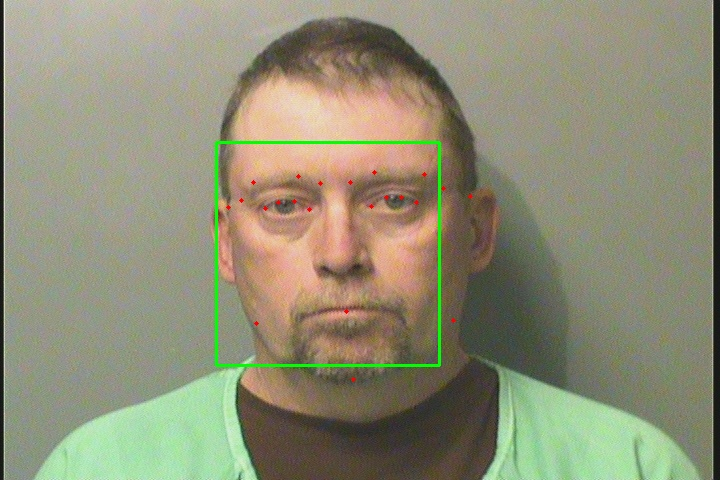
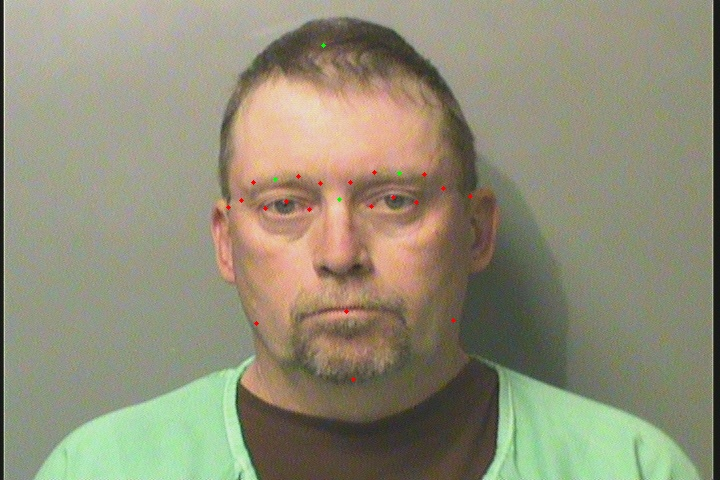
updated ASM fitting

Changed region(s): [[0.275, 0.2812, 0.6417, 0.7812], [0.3667, 0.4062, 0.4278, 0.4375], [0.5194, 0.4062, 0.55, 0.4375]]

diff --git a/templates/home.html b/templates/home.html
@@ -17,7 +17,9 @@
 
 <center>
     <div style="width: 450px; height: 500px; overflow: hidden">
-        <img src="https://thumbs.dreamstime.com/z/dumbbell-7556873.jpg" style="width: 500px; height: 500px;"  >
+        <!-- <img src="https://thumbs.dreamstime.com/z/dumbbell-7556873.jpg" style="width: 500px; height: 500px;"  > -->
+        <img src="../images/cover.jpg" style="width: 500px; height: 500px;"  >
+
 
     <!-- <img src="..." alt="..."> -->
 </div>

diff --git a/testcodes/ASMfitting-suresh.py b/testcodes/ASMfitting-suresh.py
@@ -7,9 +7,50 @@ import math
 import imutils
 from imutils import face_utils
 import os
+import pandas as pd
 
 
 
+def midpoint(p1, p2):
+    return ((p1[0]+p2[0])/2, (p1[1]+p2[1])/2) 
+
+
+def intersectionpt(p1,p2,p3,p4):
+    
+
+    # line p1 p2 
+    a1 = p2[1] - p1[1] 
+    b1 = p1[0] - p2[0] 
+    c1 = a1*(p1[0]) + b1*(p1[1])
+
+
+    #line p3 p4
+
+    a2 = p4[1] - p3[1] 
+    b2 = p3[0] - p4[0] 
+    c2 = a2*(p3[0])+ b2*(p3[1])
+ 
+
+    #determinant
+
+    determinant = a1*b2 - a2*b1
+
+    if (determinant == 0) :
+
+        #The lines are parallel. This is simplified 
+        # by returning a pair of FLT_MAX 
+        print('The points are parallel')
+        return (0,0) 
+    else:
+        mx = (b2*c1 - b1*c2)/determinant; 
+        my = (a1*c2 - a2*c1)/determinant; 
+        return (mx, my); 
+         
+
+
+
+def testprint(p1):
+    print('x:',p1[0],'y:',p1[1])
 
 def ASMfitting(imgin):
     
@@ -19,6 +60,8 @@ def ASMfitting(imgin):
     frame = cv2.imread(imgin)
     gray = cv2.cvtColor(frame, cv2.COLOR_BGR2GRAY)
     reqpoints = [0,4,8,12,16,17,18,20,21,22,23,25,26,36,37,38,39,42,43,44,45,66]
+    coords = {}
+    # data = pd.DataFrame(columns = ('image-name','0','4','8','12','16','17','18','20','21','22','23','25','26','36','37','38','39','42','43','44','45','66' ))
 
     
     detection = detector(gray, 1)
@@ -26,12 +69,58 @@ def ASMfitting(imgin):
         shape  = predictor(gray, d)
         shape1 = face_utils.shape_to_np(shape)
         (x, y, w, h) = face_utils.rect_to_bb(d)
-        cv2.rectangle(frame, (x, y), (x + w, y + h), (0, 255, 0), 2)
+        # cv2.rectangle(frame, (x, y), (x + w, y + h), (0, 255, 0), 2)
         for i,(x, y) in enumerate(shape1):
+            # data.append({'image-name': str(imgin)},ignore_index=True)
             if(i in reqpoints):
-                cv2.circle(frame, (x, y), 2, (0, 0, 255), -1)
+                strkey = "P"+ str(i)
+                point = (x,y)
+                # cv2.circle(frame, (x, y), 2, (0, 0, 255), -1)
+                # coords.append(point)
+                if strkey in coords:
+                    print("point already exist")
+                else :
+                    coords[strkey] = point
+
+        N3 = midpoint(coords['P18'],coords['P20'])
+        N4 = midpoint(coords['P23'],coords['P25'])
+        lefteyemid = midpoint(coords['P37'],coords['P38'])
+        righteyemid = midpoint(coords['P43'],coords['P44'])
+        N1 = midpoint(lefteyemid,righteyemid)
+        coords['Plfteyemid'] = lefteyemid
+        coords['Prghteyemid'] = righteyemid
+        # print('N1 :', N1)
+        coords['N3'] = N3
+        coords['N4'] = N4 
+        coords['N1'] = N1
+
+        N2 = intersectionpt(coords['P36'],coords['N3'],coords['P45'],coords['N4'])
+        print('N2:', N2)
+        coords['N2'] = N2
+
+        del coords['P37']
+        del coords['P38']
+        del coords['P43']
+        del coords['P44']
+
+
+        for key, value in coords.items():
+            print(key ,':', value[0] ,':', value[1], '\n' )
+            if(str(key[0]) == 'P'):
+                cv2.circle(frame, (int(value[0]), int(value[1])), 2, (0, 0, 255), -1)
+            else:
+                cv2.circle(frame, (int(value[0]), int(value[1])), 2, (0, 255, 0), -1)
+
+
+
+
+    # print( 'N3:' , N3)
+    # testprint(coords['P18'])
+    # print('accessing x'. )
     cv2.imshow("Output", frame)
     cv2.imwrite("fittedtst.jpeg",frame)
+    # print(data)
+    # print(coords)
     cv2.waitKey(0)
         # if cv2.waitKey(1) & 0xFF == ord('q'):
         #         break
@@ -40,3 +129,4 @@ def ASMfitting(imgin):
 
 ASMfitting('../test-images/testimg.jpeg')
 # ASMfitting('./test-images/tstimg1.jpeg')
+

diff --git a/testcodes/intersectiontst.py b/testcodes/intersectiontst.py
@@ -1,0 +1,39 @@
+
+def intersectionpt(p1,p2,p3,p4):
+    
+
+    # line p1 p2 
+    a1 = p2[1] - p1[1] 
+    b1 = p1[0] - p2[0] 
+    c1 = a1*(p1[0]) + b1*(p1[1])
+
+
+    #line p3 p4
+
+    a2 = p4[1] - p3[1] 
+    b2 = p3[0] - p4[0] 
+    c2 = a2*(p3[0])+ b2*(p3[1])
+ 
+
+    #determinant
+
+    determinant = a1*b2 - a2*b1
+
+    if (determinant == 0) :
+
+        #The lines are parallel. This is simplified 
+        # by returning a pair of FLT_MAX 
+        print('The points are parallel')
+        return (0,0) 
+    else:
+        mx = (b2*c1 - b1*c2)/determinant; 
+        my = (a1*c2 - a2*c1)/determinant; 
+        return (mx, my); 
+         
+
+
+
+
+
+
+

diff --git a/webapp.py b/webapp.py
@@ -1,5 +1,6 @@
-from flask.ext.uploads import UploadSet, configure_uploads, IMAGES
+
 from flask import Flask, flash, redirect, render_template, request, session, abort,Response
+from flask.ext.uploads import UploadSet, configure_uploads, IMAGES
 
 app = Flask(__name__, template_folder='./templates')
 import cv2
